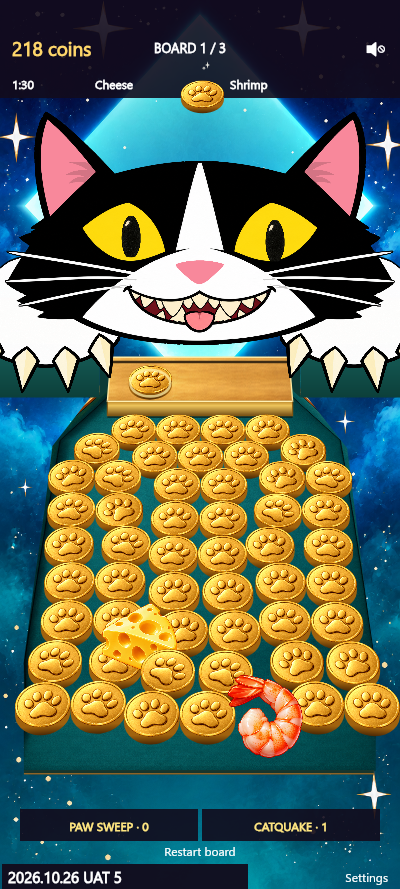
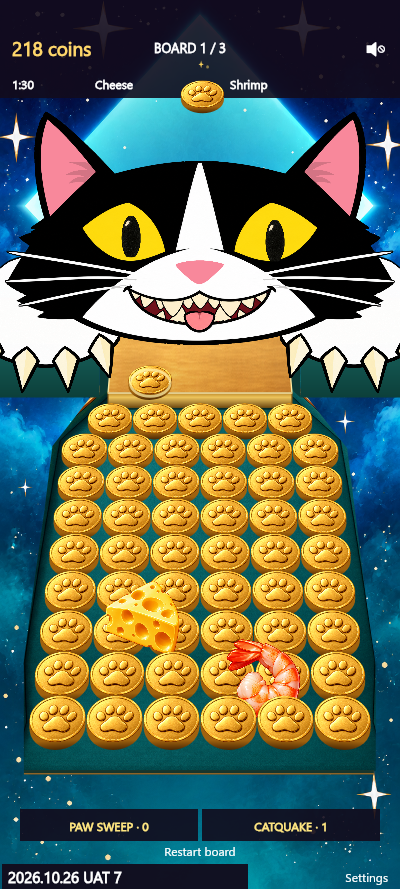
CP-21: UAT 7 - pusher starts at the chin, still opening board
The pusher now pulls back only to the top of the table under the chin and pushes down; its top is drawn up under the chin so no gap shows. The opening rows start just past its reach, so nothing moves until dropped coins reach them. One more row at the front (9 rows).

Changed region(s): [[0.03, 0.3645, 1.0, 0.8504], [0.27, 0.9719, 0.3, 1.0]]

diff --git a/index.html b/index.html
@@ -53,8 +53,8 @@ const PUSH_BACK = -25, TONGUE_H = 18, TONGUE_LEN = 300;
 // steadily from depth FUNNEL_D1 to FUNNEL_D2 to the full width (T.L..T.R): about 4, 5, then 6 coins across.
 const FUNNEL_BACK=110, FUNNEL_D1=225, FUNNEL_D2=315, GUARD_END=FUNNEL_D2+116; // CP-21: side wall to here (two rows of 53, plus 10)
 function tableHalfAt(y){const hw=(T.R-T.L)/2;return y<=FUNNEL_D1?FUNNEL_BACK:y>=FUNNEL_D2?hw:FUNNEL_BACK+(hw-FUNNEL_BACK)*(y-FUNNEL_D1)/(FUNNEL_D2-FUNNEL_D1);}
-const PUSH_HALF=FUNNEL_BACK, LEDGE_BACK=135;
-let PUSH_MIN = 135, PUSH_MAX = 205, PUSH_PERIOD = 3.2;
+const PUSH_HALF=FUNNEL_BACK, LEDGE_BACK=190;
+let PUSH_MIN = 190, PUSH_MAX = 260, PUSH_PERIOD = 3.2;
 const COIN_R = 26, LUCKY_R = 28, ITEM_R = 30; // big coins: more action per coin, and fewer for the phone to simulate
 const COIN_HALF = 2, LUCKY_HALF = 3.5, ITEM_HALF = 9; // half thicknesses
 // CP-21: coin side colours, bottom to just under the face (silver coins share the gold sides).
@@ -200,7 +200,7 @@ let holding = false, holdPos = aim, taps = [], dropTimer = 0, saveTimer = 0, las
 // test-build readout at the bottom of the screen: physics time per step (ms) and frames per second, smoothed
 const perf = { step: 0, fps: 60 };
 // when this version was published (publish_game.ps1 fills it in), shown in the readout
-const BUILD = '2026.10.26 UAT 6';
+const BUILD = '2026.10.26 UAT 7';
 
 function initPhysics() {
   // the table tilts gently down toward the player (TILT_DEG): coins at rest stay put, but a push moves them
@@ -422,8 +422,8 @@ const TOWERS = [
 const TABLE_LAYERS = 3, TONGUE_LAYERS = 2;
 function prefill() {
  // CP-21: an ordered start. Straight rows, one coin layer, no towers; prizes rest on top.
- const d=COIN_R*2+1,START_CLEAR=70; // keep the front rows this far from the edge
- for(let y=205+COIN_R+2;y+COIN_R<=T.FRONT-START_CLEAR;y+=d){
+ const d=COIN_R*2+1,START_CLEAR=20; // keep the front rows this far from the edge
+ for(let y=PUSH_MAX+COIN_R+2;y+COIN_R<=T.FRONT-START_CLEAR;y+=d){
   const n=Math.floor(2*Math.min(tableHalfAt(y-COIN_R),tableHalfAt(y+COIN_R))/d);
   for(let i=0;i<n;i++)addCoin(seededRandom()<.25?'silver':'coin',null,200+(i-(n-1)/2)*d,COIN_HALF+.2,y,yawTurn(0));
  }
@@ -2036,14 +2036,14 @@ aimFromScreen=function(sx){const p=__plane(DROP_Y),lookX=Math.max(T.L,Math.min(T
 function __quad(points){ctx.beginPath();ctx.moveTo(points[0].x,points[0].y);for(const p of points.slice(1))ctx.lineTo(p.x,p.y);ctx.closePath();}
 drawTongue=function(){
  const cm=ctx.getTransform();__camera=[cm.a,cm.b,cm.c,cm.d,cm.e,cm.f];ctx.save();ctx.fillStyle='#231c10';ctx.strokeStyle='#846127';ctx.lineWidth=1;ctx.beginPath();ctx.roundRect(198-__slotHalf,218,2*__slotHalf+4,11,3);ctx.fill();ctx.stroke();
- const back=T.BACK,left=200-PUSH_HALF,right=200+PUSH_HALF,ftl=screenOf(left,tongueDrawY,TONGUE_H),ftr=screenOf(right,tongueDrawY,TONGUE_H),fbl=screenOf(left,tongueDrawY,0),fbr=screenOf(right,tongueDrawY,0),btl=screenOf(left,back,TONGUE_H),btr=screenOf(right,back,TONGUE_H);
+ const back=-60,left=200-PUSH_HALF,right=200+PUSH_HALF,ftl=screenOf(left,tongueDrawY,TONGUE_H),ftr=screenOf(right,tongueDrawY,TONGUE_H),fbl=screenOf(left,tongueDrawY,0),fbr=screenOf(right,tongueDrawY,0),btl=screenOf(left,back,TONGUE_H),btr=screenOf(right,back,TONGUE_H);
  ctx.save();ctx.fillStyle='rgba(8,21,17,.65)';__quad([ftl,ftr,{x:fbr.x,y:fbr.y+2},{x:fbl.x,y:fbl.y+2}]);ctx.fill();ctx.restore();
  const points=[btl,btr,ftr,ftl];ctx.save();__quad(points);ctx.clip();const g=ctx.createLinearGradient(0,btl.y,0,ftl.y);g.addColorStop(0,'#f9d46d');g.addColorStop(.45,'#d7a844');g.addColorStop(.7,'#f6cf67');g.addColorStop(1,'#b77d24');ctx.fillStyle=g;ctx.fillRect(btl.x-30,btl.y-2,ftr.x-btl.x+60,ftl.y-btl.y+5);
  if(typeof __brassTexture!=='undefined'){const crop=__brassCrop;ctx.globalAlpha=.62;const full=screenOf(left,tongueDrawY-TONGUE_LEN,TONGUE_H);ctx.drawImage(__brassTexture,crop[0],crop[1],crop[2],crop[3],fbl.x,full.y,fbr.x-fbl.x,ftl.y-full.y);ctx.globalAlpha=1;}
  ctx.restore();ctx.strokeStyle='#ffe9a1';ctx.lineWidth=1.2;__quad(points);ctx.stroke();
  const edge=ctx.createLinearGradient(0,ftl.y,0,fbl.y);edge.addColorStop(0,'#bf8b2b');edge.addColorStop(.3,'#edc45b');edge.addColorStop(1,'#765016');ctx.fillStyle=edge;__quad([ftl,ftr,fbr,fbl]);ctx.fill();ctx.strokeStyle='#805613';ctx.lineWidth=1;ctx.stroke();ctx.strokeStyle='#fff0b3';ctx.beginPath();ctx.moveTo(ftl.x,ftl.y);ctx.lineTo(ftr.x,ftr.y);ctx.stroke();
  // Rear housing occludes the plate's rear edge, making the fixed stroke emerge from a slot.
- ctx.strokeStyle='#3d2b14';ctx.lineWidth=2;ctx.beginPath();ctx.moveTo(199-__slotHalf,221);ctx.lineTo(201+__slotHalf,221);ctx.stroke();ctx.restore();
+ ctx.restore();
 };
 function __fallDisplay(b,age,c){
  const top=-VIEW.y/VIEW.zy-14;

diff --git a/SPEC.md b/SPEC.md
@@ -1,4 +1,4 @@
-# CP-21 PUBLISHED — 20261026205627 / APK4 (2026.10.26 UAT 6 trial; UAT 5 20261026163104, UAT 4 20261026141443, UAT 3 20261026134357, UAT 2 20261026113204, UAT 1 20261026100613)
+# CP-21 PUBLISHED — 20261026211828 / APK4 (2026.10.26 UAT 7; UAT 6 trial 20261026205627, UAT 5 20261026163104, UAT 4 20261026141443, UAT 3 20261026134357, UAT 2 20261026113204, UAT 1 20261026100613)
 
 Layout lock. The locked numbers are in "Locked layout (CP-21)" below and supersede older board geometry. Source: work/cp21/release.html. Report: tickets/CP-21.md. Phone UAT pending.
 
@@ -129,7 +129,7 @@ Layout first, art second: new art fills this layout and does not change it. Temp
 - **Camera:** flatter, lower camera. CAM_K 0.25 (how much the table narrows toward the back), CAM_TILT 0.75 (UAT 2; UAT 1 was 0.65, Jenny found the coins too slanted; UAT 3's view was steeper). Row size on screen is that of the 640-deep table: a longer table adds rows further down, never squeezes them.
 - **Drop:** a tapped coin's physical fall starts from the screen top the view had before the lock (tilt 0.65, table width 330), whatever the layout. A lower, slower start let about 1 in 10 coins pass through the moving ledge (UAT 1 bug).
 - **Table:** T = {L 30, R 370, BACK 190, FRONT 760}. Front edge drawn at TABLE_W 350 (UAT 2; 392 = full screen width in UAT 1). Narrow back: 110 either side of centre up to depth 225, widening to full width at 315, giving rows of 4, 4, 5, 6 coins, then full width. No wood rails. Fallback on file: FRONT 720 (one row fewer), `work/cp21/layout-7rows-fallback.html`.
-- **Start:** ordered single layer of straight rows from just in front of the pulled-back pusher to 70 units (START_CLEAR) from the front edge: 9 rows, 8 showing with the pusher forward; 51 coins on the table at the start on every board. No towers on any board (Board 3's towers dropped; tower topple physics kept). Prizes and Board 3's Quake coin rest on top of the rows; their depths moved 120 units forward with the longer table.
+- **Start:** ordered single layer of straight rows from just past the pusher's furthest reach (first row at 288) to 20 units (START_CLEAR) from the front edge: 9 rows on every board (UAT 7). No towers on any board (Board 3's towers dropped; tower topple physics kept). Prizes and Board 3's Quake coin rest on top of the rows.
 - **Cat:** head drawn at HEAD_Z 0.94 of the screen fit, chin on the table's back edge (CHIN_Y 215). Head art unchanged.
 - **Mitts:** "tucked" pose for Waiting: mitts behind the cheeks, claws hooked 30 units over the inner front corner of each armrest (MITT_HOOK 30, MITT_D 228, MITT_LIFT 30, MITT_W 182), no cuffs or black arms showing. Teal/brass armrests either side of the narrow back (ARM_H 70, ARM_FRONT 240). "Reaching" (mitts out at the corners with arms) is kept as a second pose for later use.
 - **Coins:** approved big-paw face, colour C: contrast 1.3 / saturation 0.9, a lighter, softer gold (UAT 2; UAT 1 was 1.6 / 1.25, too yellow); drawn twice as thick as the physics (COIN_LOOK 2); dark gold sides, bright faces. COIN_R 26 (physics unchanged).
@@ -137,9 +137,9 @@ Layout first, art second: new art fills this layout and does not change it. Temp
 - **Coins always whole (UAT 3):** coins are only hidden when they slide under the back wall (in front of the ledge's slot everything shows), fall off an edge, or are behind art. The old picture's felt outline no longer masks them.
 - **Side gutters (UAT 3–4, Jenny):** the side wall stays up from where the table reaches full width along the first two full-width rows (depth 315 to 431, UAT 4: the first push used to shove their outer coins far over the edges); from there to the front coins can slide over the left and right edges. The funnel walls beside the ledge stay. A low invisible lip, one coin thick, runs 0.9 coin radius outside each edge, so a coin hangs most of its width over the edge, while coins riding on others can tip off. A coin or prize dropping off a side is lost and doesn't pay. Pure physics without the lip lost over half the coins (0/18 wins). A later tree mode (like Bear Coin) may block the gutters.
 - **Rescue:** a coin squeezed down through the table well inside its edges (about 1 in 1,000 taps) is put back on top of the table instead of vanishing.
-- **Balance (desktop, Oct 26, UAT 4):** 18/18 no-power wins over 3 boards, 3 seeds, 0.22/0.4 s taps. Coins used: Board 1 72–119 of 220, Board 2 74–130 of 160, Board 3 106–149 of 160 (tightest). 1 of 1,879 coins and no prizes went off the sides (UAT 3: 13 of 1,988) (tickets/CP-21-evidence/wins-uat4.log).
+- **Balance (desktop, Oct 26, UAT 7):** 18/18 no-power wins over 3 boards, 3 seeds, 0.22/0.4 s taps. Coins used: Board 1 97–147 of 220, Board 2 90–131 of 160, Board 3 126–147 of 160 (tightest). No prizes went off the sides (tickets/CP-21-evidence/wins-uat7.log).
 - **Table front (UAT 5):** the front-edge trim (dark line plus thin gold line) is drawn at the real front edge (760). The felt below the old painted front is filled by mirroring the last 50 painted felt rows, so there is no seam or streaking on an empty board. Drawing only.
-- **Pusher (UAT 6 trial, Jenny):** pusher moved back toward the cat by its stroke: PUSH_MIN 135, PUSH_MAX 205 (was 205/275), LEDGE_BACK 135; start rows unchanged (first row at 233). The opening board stays still until dropped coins reach the rows. Trial only: desktop balance got harder (15/18 wins, Board 3 lost 3 of 6; tickets/CP-21-evidence/wins-pusher-back-test.log). Keep, adjust or revert after Jenny's phone look; UAT 5 values are the fallback.
+- **Pusher and opening (UAT 7, Jenny):** the pusher starts at the chin and only pushes down toward the coins; no gap ever shows between the chin and the pusher. Stroke 190 to 260 (pulled back = the table's back edge, under the chin; was 205 to 275), LEDGE_BACK 190, the plate's top drawn from depth -60 so it runs up under the chin. The opening rows start just past the pusher's reach (first row at 288), so a strip of bare table shows and no start coin moves until dropped coins reach them. 9 rows, START_CLEAR 20 (front row's edge 22 from the front). UAT 6's trial (stroke 135 to 205) is superseded.
 - **Next (art pass, not layout):** rounder cat head or chin fluff to fill the gap between chin and ledge; ledge look; Jenny prefers the Rest face to the Waiting face, so Waiting will change later.
 
 ## Coin entry and input

diff --git a/tickets/CP-21.md b/tickets/CP-21.md
@@ -1,8 +1,24 @@
 # CP-21 Board layout like iBear (mockups)
 
-Status: **Published to UAT: 2026.10.26 UAT 6 / APK4 (trial), numeric 20261026205627**, on Jenny's "just put it in UAT so I can see it" (Oct 26). Phone look pending. UAT 1–5 are covered below.
+Status: **Published to UAT: 2026.10.26 UAT 7 / APK4, numeric 20261026211828**, on Jenny's "I will try this one … go ahead and add coins underneath the shrimp" (Oct 26). Phone UAT pending. UAT 1–6 are covered below.
 
-## UAT 6 trial (Oct 26)
+## UAT 7 (Oct 26)
+**Jenny on UAT 6:** wrong. The pusher must start at the chin and only push down toward the coins; it must never move up into the chin or leave a gap between the chin and the pusher. In UAT 5 and 6, blue background showed between the chin and the pusher's top, because the top was only drawn from the back of the table.
+
+**Change:**
+- Pusher stroke 190 to 260 (was 205 to 275): pulled back, it sits at the top of the table under the chin; its top is drawn up under the chin, so no gap shows ([stroke](CP-21-evidence/claude-step35-pusher-from-chin.png)).
+- Opening rows start just past the pusher's reach, with bare table between. Jenny asked for more coins at the front: one more row fits (two would hang over the edge), so 9 rows, front row 22 from the edge.
+- Source `work/cp21/review12.html`, patched from UAT 5 (not yet folded into integrate.py).
+
+**Validation:**
+- No taps, 8 s: no start coin moves on any board.
+- 18/18 no-power wins ([log](CP-21-evidence/wins-uat7.log)). Coins used: Board 1 97–147 of 220, Board 2 90–131 of 160, Board 3 126–147 of 160 (UAT 5: 72–119, 74–130, 106–149).
+- Templates refreshed: [Board 1](CP-21-evidence/CP-21-template-board1-phone-res.png), [Board 3](CP-21-evidence/CP-21-template-board3-phone-res.png).
+
+**Publication:** backup `uat/backups/before-CP-21-UAT7-20261026211828`, verified; production JSON/APK and the UAT APK unchanged; fresh OneDrive download matches staged `9311b8f5…`. UAT 6 records are `*-uat6.json`, source in `work/cp21/uat6/`.
+
+
+## UAT 6 trial (Oct 26, superseded by UAT 7)
 **Jenny:** the opening board should stay perfectly orderly until the player drops coins; today the pusher's first stroke shoves the whole block. Her idea: move the pusher back toward the cat, not the coins.
 
 **Change (trial):** the pusher's stroke moved 70 back (now 135 to 205, was 205 to 275); start rows unchanged. Source `work/cp21/test-pushback.html` (not yet folded into integrate.py).
